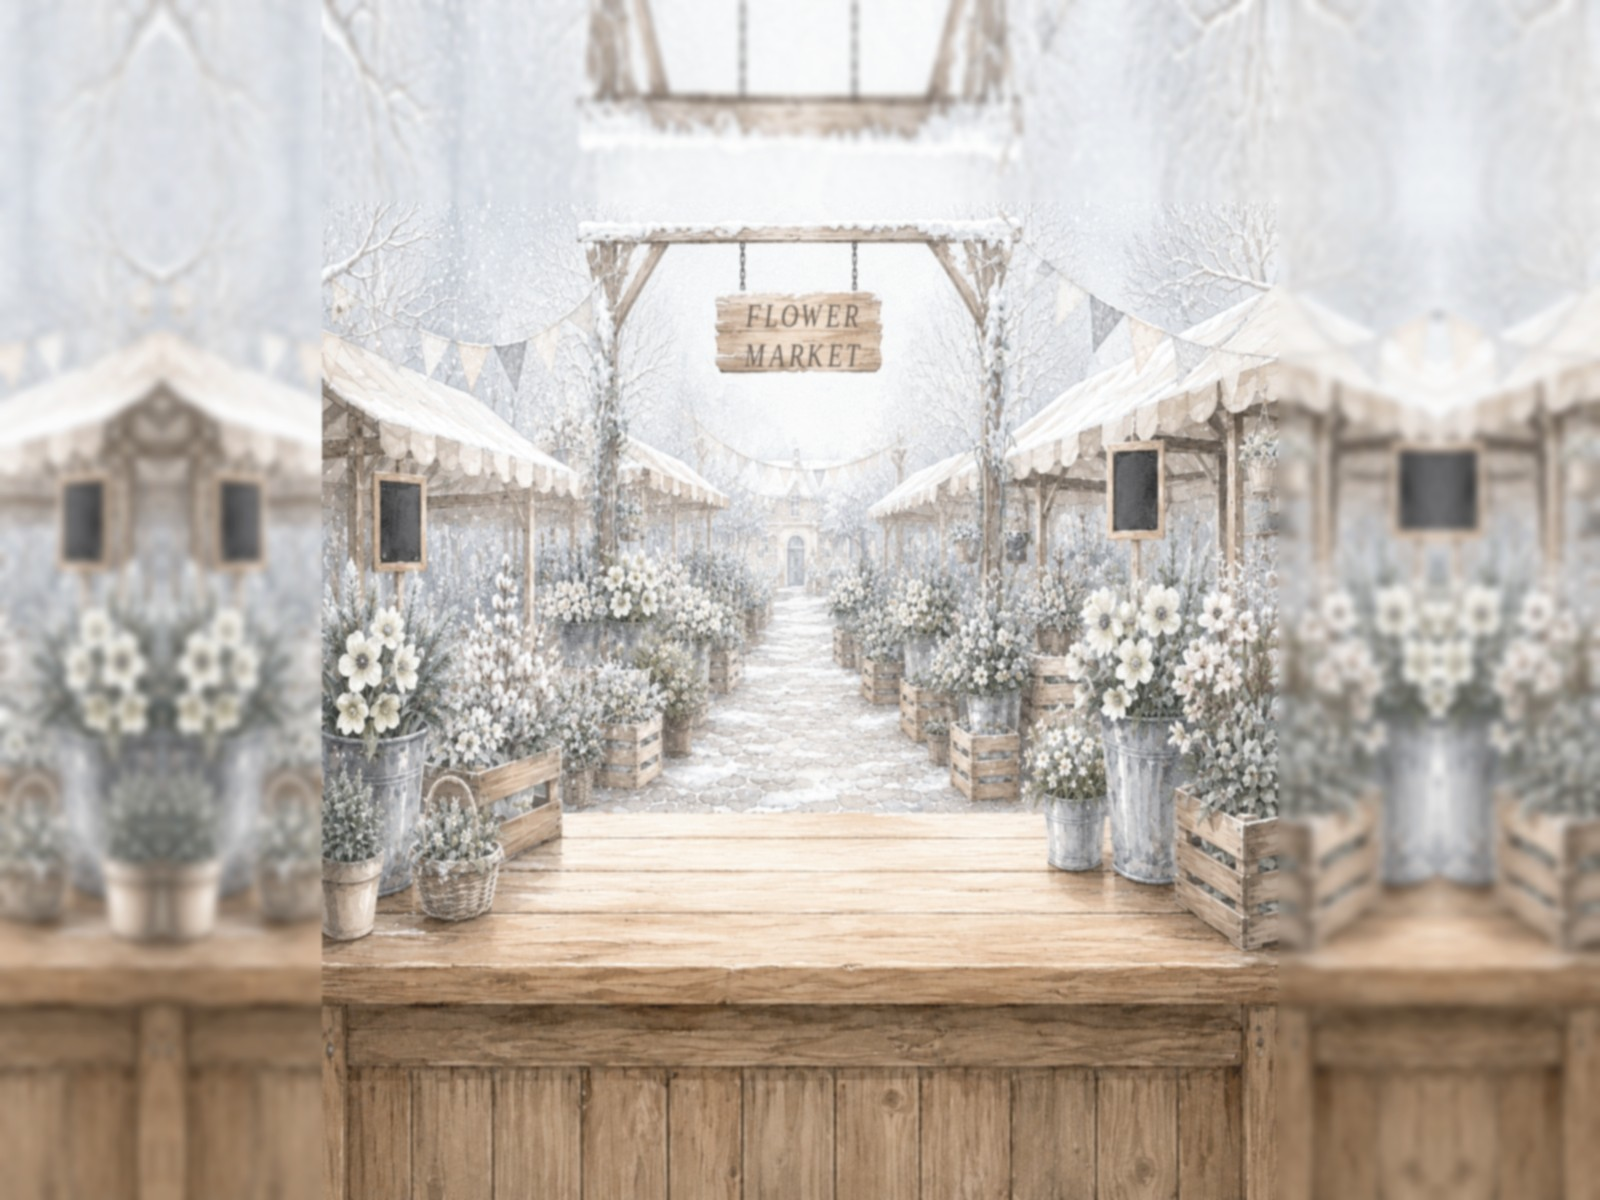
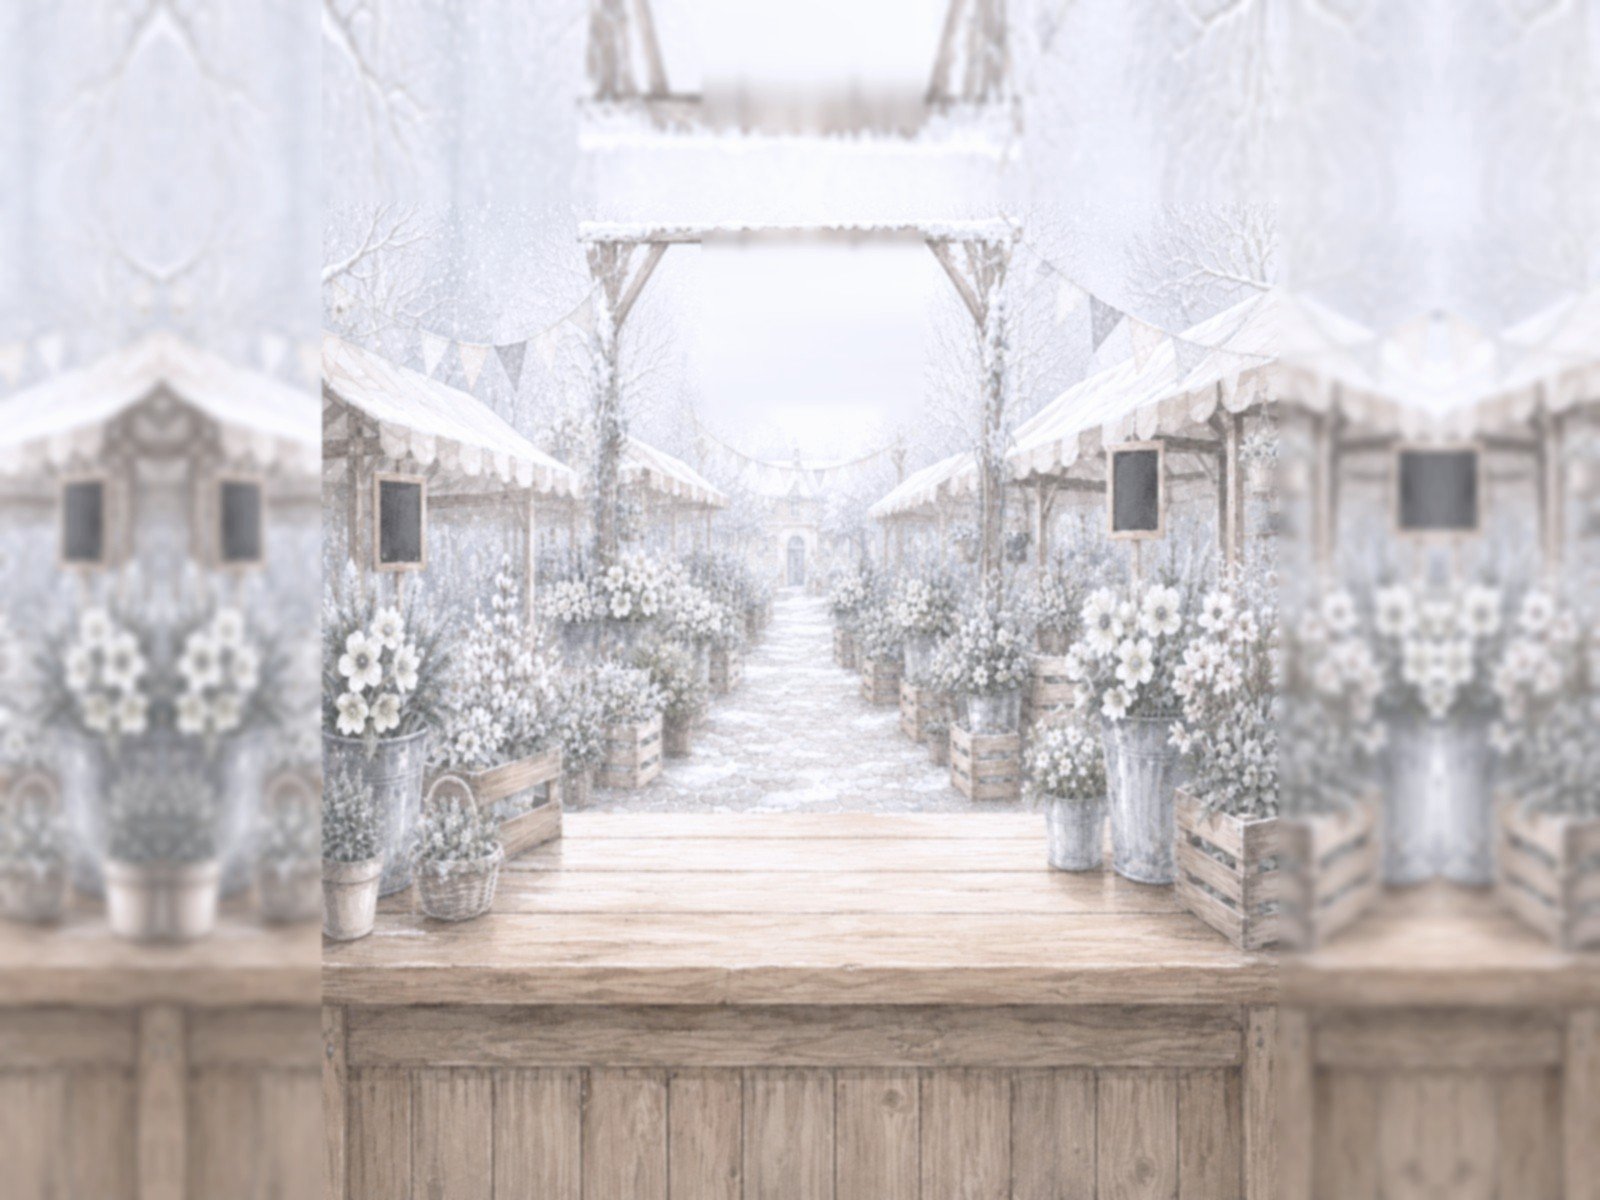
feat: 市場背景を店頭寄りのトーンに統一し、看板を削除・フリージアの表示切れを修正
- 春夏秋冬すべての市場背景から看板（板＋鎖）を削除し、上のアーチの
  横木のみ残した。看板板は左右の背景を横方向に線形補間して自然に消した
- 市場の背景トーンを店頭背景（水彩・落ち着いたフラットな画風）に
  半歩寄せ、彩度・コントラストを抑えて店頭との世界観のつながりを
  自然にした。季節感は色味の方向で残す
  - 春: 桜色・桃色の淡いピンク
  - 夏: 暖色に寄せすぎず、青・黄を残した涼やかさ
  - 秋: 春よりしっかり効かせた茶色・オレンジの暖かみ
  - 冬: 彩度を落とし、白いもやを強めた静かな空気感
- 市場画面の見出し（「市場」「今日は、どの花で〜」）をアーチの横木から
  一行分下げ、上部の余白を整えた
- フリージアの bounding box（flowerBounds.ts）が現在の絵と合っておらず、
  上のつぼみが表示エリアからはみ出して切れていたのを実測し直して修正

diff --git a/src/data/flowerBounds.ts b/src/data/flowerBounds.ts
@@ -53,7 +53,7 @@ export const FLOWER_BOUNDS: Record<string, FlowerBounds> = {
   dahlia: { top: 0.1094, bottom: 1.0, left: 0.3174, right: 0.7451, presence: 1.02 },
   delphinium: { top: 0.1562, bottom: 1.0, left: 0.3223, right: 0.5811, presence: 1.21 },
   eucalyptus: { top: 0.0459, bottom: 0.9834, left: 0.2822, right: 0.7178, presence: 1.01 },
-  freesia: { top: 0.1992, bottom: 1.0, left: 0.3164, right: 0.6475, presence: 1.11 },
+  freesia: { top: 0.0664, bottom: 0.9619, left: 0.2305, right: 0.7686, presence: 1.11 },
   gentian: { top: 0.0635, bottom: 0.9805, left: 0.1973, right: 0.8018, presence: 0.9 },
   gerbera: { top: 0.0713, bottom: 1.0, left: 0.2529, right: 0.7363, presence: 0.98 },
   gypsophila: { top: 0.1406, bottom: 1.0, left: 0.2051, right: 0.7852, presence: 0.92 },

diff --git a/src/screens/MarketScreen.css b/src/screens/MarketScreen.css
@@ -17,6 +17,7 @@
 
 .market__head {
   flex: 0 0 auto;
+  margin-top: 28px;
   padding: 0 var(--fs-space-lg);
   text-align: center;
   animation: market-in 1.6s var(--fs-easing-soft) both;
